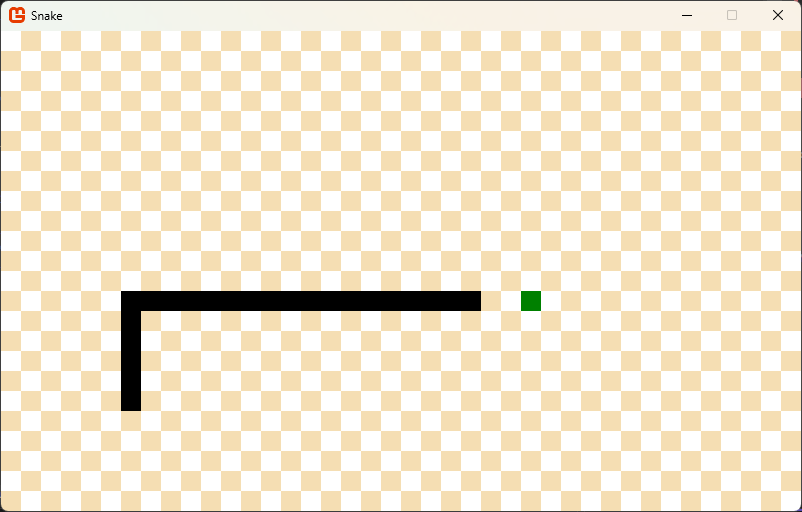
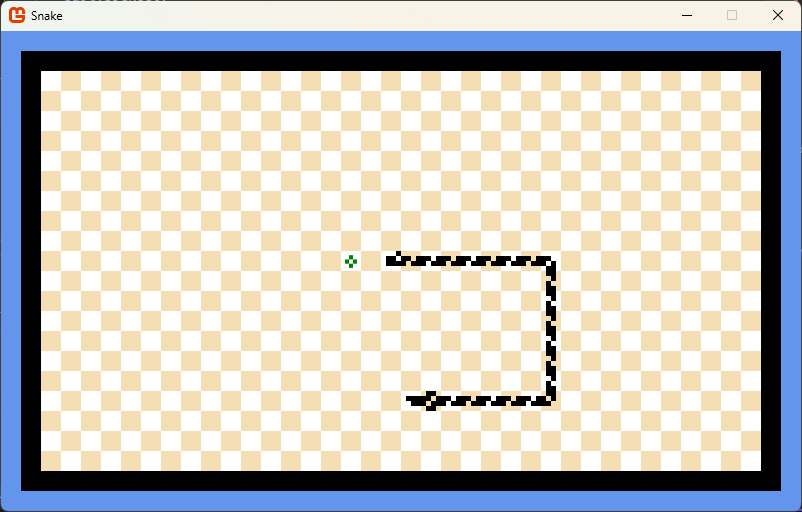
Add classic - Nokia 3310  - sprites.

Changed region(s): [[0.0, 0.0625, 1.0, 1.0], [0.1247, 0.5, 0.717, 0.8125]]

diff --git a/src/SnakeGame/Scenes/GameScene.cs b/src/SnakeGame/Scenes/GameScene.cs
@@ -17,22 +17,34 @@ public sealed class GameScene(
     KeyboardManager keyboardManager)
     : IScene, IDisposable
 {
-    private static readonly TimeSpan s_updateInterval = TimeSpan.FromSeconds(0.125);
-    private static readonly int s_rows = 24;
-    private static readonly int s_cols = 40;
+    private static readonly int s_rows = 20;
+    private static readonly int s_cols = 36;
     private static readonly Vector2 s_tileSize = new(20);
+    private static readonly Vector2 s_drawOffset = new(2);
+    private static readonly Point s_outOfBounds = ((s_drawOffset + new Vector2(1)) * -1).ToPoint();
+    private static readonly int s_bugCountdown = 5;
+    private static readonly TimeSpan s_initialUpdateInternal = TimeSpan.FromSeconds(0.125);
+    private static readonly int s_speedCountdown = 9;
+    private static readonly TimeSpan s_bugShowDuration = TimeSpan.FromSeconds(10);
 
-    // TODO: Provide this in a TextureManager?
-    private readonly Texture2D _texture = CreateTexture1px(graphicsDevice);
-    private readonly Snake _snake = new(new Point(s_cols / 2, s_rows / 2));
+    // TODO: Provide this in a TextureManager? 
+    private readonly Snake _snake = new(new Point(s_cols / 2, s_rows / 2), new Point(s_cols / 2 - 1, s_rows / 2));
+
+    private readonly Texture2D _texture1px = CreateTexture1px(graphicsDevice);
+    private readonly Texture2D _snakeSprite = contentManager.Load<Texture2D>("sprites/snake");
     private readonly SpriteFont _font = contentManager.Load<SpriteFont>("fonts/Arcade");
 
-    private Point _food = new(-1);
+    private GameSceneState _gameSceneState = GameSceneState.Created;
     private Direction _direction = Direction.Right;
 
-    private GameSceneState _gameSceneState = GameSceneState.Created;
+    private Point _food = s_outOfBounds;
+    private Point _bug = s_outOfBounds;
+    private int _bugIndex = 0;
+    private Duration _bugShowDuration = new Duration(s_bugShowDuration);
+    private int _nextBugCountdown = s_bugCountdown;
 
-    private TimeSpan _updateCooldown = s_updateInterval;
+    private Duration _updateCooldown = new Duration(s_initialUpdateInternal);
+    private int _nextSpeedUpCountdown = s_speedCountdown;
 
     private static Texture2D CreateTexture1px(GraphicsDevice graphicsDevice)
     {
@@ -41,13 +53,13 @@ public sealed class GameScene(
         return texture;
     }
 
-    public void Dispose() => _texture.Dispose();
+    public void Dispose() => _texture1px.Dispose();
 
     public void Update(GameTime gameTime)
     {
         keyboardManager.Update();
-        _updateCooldown -= gameTime.ElapsedGameTime;
-        if (_updateCooldown <= TimeSpan.Zero)
+        _updateCooldown.Update(gameTime);
+        if (_updateCooldown.IsExpired)
         {
             switch (_gameSceneState)
             {
@@ -65,7 +77,7 @@ public sealed class GameScene(
                                 _direction = Direction.Up;
                             else
                                 throw new UnreachableException($"Unexpected starting {nameof(Direction)}");
-                            _food = NextFoodPoint(_snake.Body, s_rows, s_cols);
+                            _food = NextEmptyPoint(_snake.Body, _bug, s_rows, s_cols);
                             _gameSceneState = GameSceneState.Playing;
                         }
                     }
@@ -78,13 +90,29 @@ public sealed class GameScene(
                 case GameSceneState.Playing:
                     {
                         _direction = GetNextDirection();
-                        var head = Wrap(_snake.Head.Move(_direction));
+                        var head = Wrap(_snake.Head.Point.GetNextPosition(_direction));
                         if (head == _food)
                         {
                             _snake.Eat(head);
-                            _food = NextFoodPoint(_snake.Body, s_rows, s_cols);
+                            _food = NextEmptyPoint(_snake.Body, _bug, s_rows, s_cols);
+                            if (_nextBugCountdown > 0)
+                            {
+                                --_nextBugCountdown;
+                                if (_nextBugCountdown == 0)
+                                {
+                                    _bug = NextEmptyPoint(_snake.Body, _food, s_rows, s_cols);
+                                    _bugIndex = Random.Shared.Next(5);
+                                    _bugShowDuration.Reset();
+                                }
+                            }
                         }
-                        else if (_snake.Body.Contains(head))
+                        else if (head == _bug)
+                        {
+                            _snake.Eat(head);
+                            _bug = s_outOfBounds;
+                            _nextBugCountdown = s_bugCountdown;
+                        }
+                        else if (head != _snake.Tail.Point && _snake.Body.Any(bp => head == bp.Point))
                         {
                             _gameSceneState = GameSceneState.GameOver;
                         }
@@ -105,15 +133,22 @@ public sealed class GameScene(
                 default:
                     throw new UnreachableException($"Unexpected {nameof(GameSceneState)} '{_gameSceneState}'");
             }
-            _updateCooldown = s_updateInterval;
+            _updateCooldown.Reset();
+        }
+
+        _bugShowDuration.Update(gameTime);
+        if (_bugShowDuration.IsExpired && _nextBugCountdown == 0)
+        {
+            _bug = s_outOfBounds;
+            _nextBugCountdown = s_bugCountdown;
         }
 
         static Point Wrap(Point p) => new((p.X % s_cols + s_cols) % s_cols, (p.Y % s_rows + s_rows) % s_rows);
     }
 
-    private static Point NextFoodPoint(IReadOnlyList<Point> snakeBody, int rows, int cols)
+    private static Point NextEmptyPoint(IReadOnlyList<BodyPart> snakeBody, Point foodOrBug, int rows, int cols)
     {
-        var size = rows * cols - snakeBody.Count;
+        var size = rows * cols - snakeBody.Count - (foodOrBug.X > 0 ? 1 : 0);
         var buffer = ArrayPool<Point>.Shared.Rent(size);
         var choices = buffer.AsSpan(0, size);
         var i = 0;
@@ -122,7 +157,7 @@ public sealed class GameScene(
             for (var x = 0; x < cols; ++x)
             {
                 var p = new Point(x, y);
-                if (!snakeBody.Contains(p))
+                if (p != foodOrBug && snakeBody.All(bp => p != bp.Point))
                 {
                     choices[i++] = p;
                 }
@@ -165,10 +200,51 @@ public sealed class GameScene(
 
     public void Draw(SpriteBatch spriteBatch)
     {
+        DrawBorder(spriteBatch);
         DrawGrid(spriteBatch);
         DrawFood(spriteBatch);
+        DrawBug(spriteBatch);
         DrawSnake(spriteBatch);
         DrawText(spriteBatch);
+    }
+
+    private void DrawBorder(SpriteBatch spriteBatch)
+    {
+        // Vertical
+        for (var y = -1; y <= s_rows; ++y)
+        {
+            spriteBatch.Draw(
+                _texture1px,
+                new Rectangle(
+                    location: ((new Vector2(s_drawOffset.X - 1, y + s_drawOffset.Y)) * s_tileSize).ToPoint(),
+                    size: s_tileSize.ToPoint()),
+                Color.Black);
+
+            spriteBatch.Draw(
+                _texture1px,
+                new Rectangle(
+                    location: ((new Vector2(s_cols, y) + s_drawOffset) * s_tileSize).ToPoint(),
+                    size: s_tileSize.ToPoint()),
+                Color.Black);
+        }
+
+        // Horizontal
+        for (var x = 0; x < s_cols; ++x)
+        {
+            spriteBatch.Draw(
+                _texture1px,
+                new Rectangle(
+                    location: ((new Vector2(x + s_drawOffset.X, s_drawOffset.Y - 1)) * s_tileSize).ToPoint(),
+                    size: s_tileSize.ToPoint()),
+                Color.Black);
+
+            spriteBatch.Draw(
+                _texture1px,
+                new Rectangle(
+                    location: ((new Vector2(x, s_rows) + s_drawOffset) * s_tileSize).ToPoint(),
+                    size: s_tileSize.ToPoint()),
+                Color.Black);
+        }
     }
 
     private void DrawGrid(SpriteBatch spriteBatch)
@@ -178,9 +254,9 @@ public sealed class GameScene(
             for (var x = 0; x < s_cols; ++x)
             {
                 spriteBatch.Draw(
-                    _texture,
+                    _texture1px,
                     new Rectangle(
-                        location: (new Vector2(x, y) * s_tileSize).ToPoint(),
+                        location: ((new Vector2(x, y) + s_drawOffset) * s_tileSize).ToPoint(),
                         size: s_tileSize.ToPoint()),
                     ((x + y) % 2 == 0) ? Color.White : Color.Wheat);
             }
@@ -192,10 +268,11 @@ public sealed class GameScene(
         foreach (var part in _snake.Body)
         {
             spriteBatch.Draw(
-                _texture,
+                _snakeSprite,
                 new Rectangle(
-                    location: (part.ToVector2() * s_tileSize).ToPoint(),
+                    location: ((part.Vector2 + s_drawOffset) * s_tileSize).ToPoint(),
                     size: s_tileSize.ToPoint()),
+                part.SrcRect,
                 Color.Black);
         }
     }
@@ -203,11 +280,27 @@ public sealed class GameScene(
     private void DrawFood(SpriteBatch spriteBatch)
     {
         spriteBatch.Draw(
-            _texture,
+            _snakeSprite,
             new Rectangle(
-                location: (_food.ToVector2() * s_tileSize).ToPoint(),
+                location: ((_food.ToVector2() + s_drawOffset) * s_tileSize).ToPoint(),
                 size: s_tileSize.ToPoint()),
+            new Rectangle(
+                location: new Point(100, 0),
+                size: new Point(20)),
             Color.Green);
+    }
+
+    private void DrawBug(SpriteBatch spriteBatch)
+    {
+        spriteBatch.Draw(
+            _snakeSprite,
+            new Rectangle(
+                location: ((_bug.ToVector2() + s_drawOffset) * s_tileSize).ToPoint(),
+                size: s_tileSize.ToPoint()),
+            new Rectangle(
+                location: new Point(80, _bugIndex * 20),
+                size: new Point(20)),
+            Color.Red);
     }
 
     private void DrawText(SpriteBatch spriteBatch)
@@ -229,4 +322,15 @@ public sealed class GameScene(
             spriteBatch.DrawString(_font, text, pausePosition, Color.DarkBlue);
         }
     }
+}
+
+public record struct Duration(TimeSpan DurationTime)
+{
+    public TimeSpan RemainingTime { get; private set; } = DurationTime;
+
+    public readonly bool IsExpired => RemainingTime <= TimeSpan.Zero;
+
+    public void Update(GameTime gameTime) => RemainingTime -= gameTime.ElapsedGameTime;
+
+    public void Reset() => RemainingTime = DurationTime;
 }

diff --git a/src/SnakeGame/Models/Snake.cs b/src/SnakeGame/Models/Snake.cs
@@ -3,15 +3,20 @@ using Nito.Collections;
 
 namespace SnakeGame.Models;
 
-public sealed class Snake(Point point)
+public sealed class Snake(Point head, Point tail)
 {
-    private readonly Deque<Point> _points = new([point]);
+    private readonly Deque<BodyPart> _parts = new([
+        new BodyPart(head, PartType.Head, Direction.Right),
+        new BodyPart(tail, PartType.Tail, Direction.Right),
+    ]);
 
-    public Point Head => _points.First();
+    private bool _wasLastMoveAnEat = false;
 
-    public Point Tail => _points.Last();
+    public BodyPart Head => _parts.First();
 
-    public IReadOnlyList<Point> Body => _points;
+    public BodyPart Tail => _parts.Last();
+
+    public IReadOnlyList<BodyPart> Body => _parts;
 
     public string ToString(int rows, int cols)
     {
@@ -25,20 +30,53 @@ public sealed class Snake(Point point)
             })
             .ToArray();
 
-        foreach (var point in _points)
+        foreach (var point in _parts.Select(p => p.Point))
             grid[point.Y][point.X] = 'X';
 
         return string.Join('\n', grid.Select(row => new string(row)));
     }
 
+    private static Direction GetNextDirection(Point prev, Point next)
+    {
+        if (prev.Y == next.Y)
+        {
+            return next.X == prev.X + 1 || next.X < prev.X - 1
+                ? Direction.Right
+                : Direction.Left;
+        }
+        else
+        {
+            return next.Y == prev.Y + 1 || next.Y < prev.Y - 1
+                ? Direction.Down
+                : Direction.Up;
+        }
+    }
+
+    private static PartType GetNextPartType(Direction prev, Direction next)
+    {
+        if (next == prev)
+        {
+            return PartType.BellyEmpty;
+        }
+
+        return prev.IsPositive() ? PartType.CornerPositive : PartType.CornerNegative;
+    }
+
     public void Move(Point point)
     {
-        _points.AddToFront(point);
-        _points.RemoveFromBack();
+        var direction = GetNextDirection(Head.Point, point);
+        _parts[0] = _parts[0] with { Type = _wasLastMoveAnEat ? PartType.BellyFull : GetNextPartType(_parts[0].Direction, direction), Direction = direction };
+        _parts.AddToFront(new BodyPart(point, PartType.Head, direction));
+        _parts.RemoveFromBack();
+        _parts[^1] = _parts[^1] with { Type = PartType.Tail };
+        _wasLastMoveAnEat = false;
     }
 
     public void Eat(Point point)
     {
-        _points.AddToFront(point);
+        var direction = GetNextDirection(Head.Point, point);
+        _parts[0] = _parts[0] with { Type = _wasLastMoveAnEat ? PartType.BellyFull : GetNextPartType(_parts[0].Direction, direction) };
+        _parts.AddToFront(new BodyPart(point, PartType.Head, direction));
+        _wasLastMoveAnEat = true;
     }
 }

diff --git a/src/SnakeGame/Models/Direction.cs b/src/SnakeGame/Models/Direction.cs
@@ -12,6 +12,8 @@ public enum Direction
 
 public static class DirectionExtensions
 {
+    public static bool IsPositive(this Direction direction) => direction is Direction.Right or Direction.Down;
+
     public static Point ToPoint(this Direction direction) => direction switch
     {
         Direction.Right => new Point(1, 0),
@@ -21,7 +23,7 @@ public static class DirectionExtensions
         _ => throw new UnreachableException($"Unexpected {nameof(Direction)} '{direction}'"),
     };
 
-    public static Point Move(this Point point, Direction direction) => point + direction.ToPoint();
+    public static Point GetNextPosition(this Point point, Direction direction) => point + direction.ToPoint();
 
     public static bool IsDirectionPressed(this KeyboardManager keyboardManager, Direction direction) => direction switch
     {

diff --git a/src/SnakeGame/Models/BodyPart.cs b/src/SnakeGame/Models/BodyPart.cs
@@ -1,0 +1,10 @@
+using Microsoft.Xna.Framework;
+
+namespace SnakeGame.Models;
+
+public readonly record struct BodyPart(Point Point, PartType Type, Direction Direction)
+{
+    public Vector2 Vector2 => Point.ToVector2();
+
+    public Rectangle SrcRect => new(new Point((int)Direction * 20, (int)Type * 20), new Point(20));
+}

diff --git a/src/SnakeGame/Models/PartType.cs b/src/SnakeGame/Models/PartType.cs
@@ -1,0 +1,11 @@
+namespace SnakeGame.Models;
+
+public enum PartType
+{
+    Head,
+    BellyEmpty,
+    BellyFull,
+    Tail,
+    CornerNegative,
+    CornerPositive,
+}
